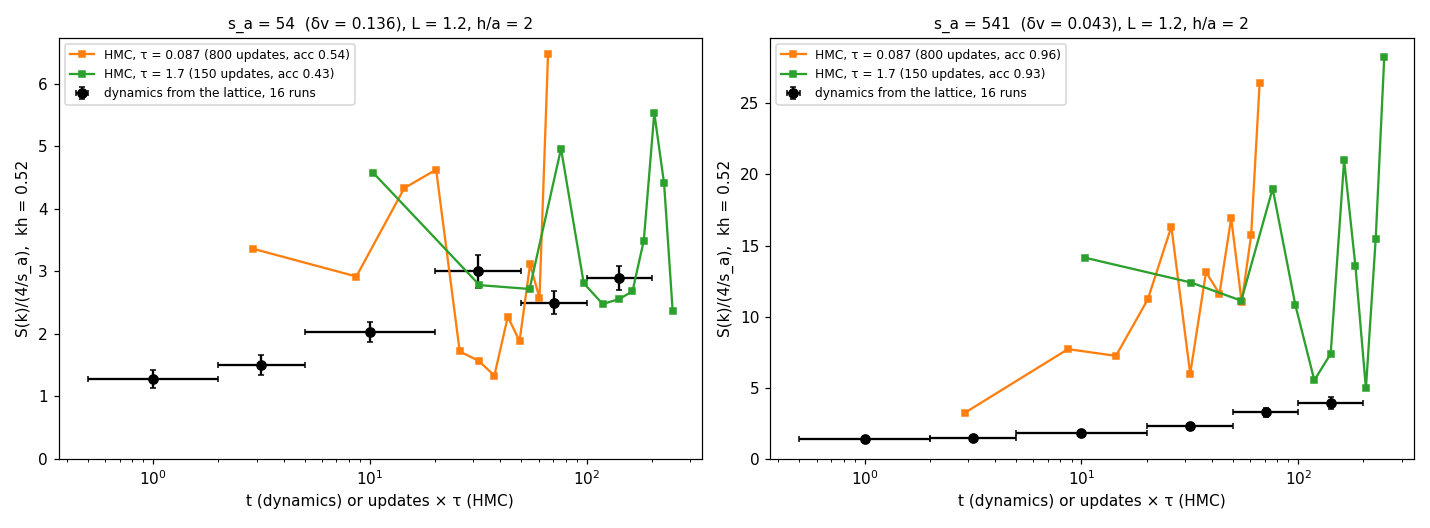
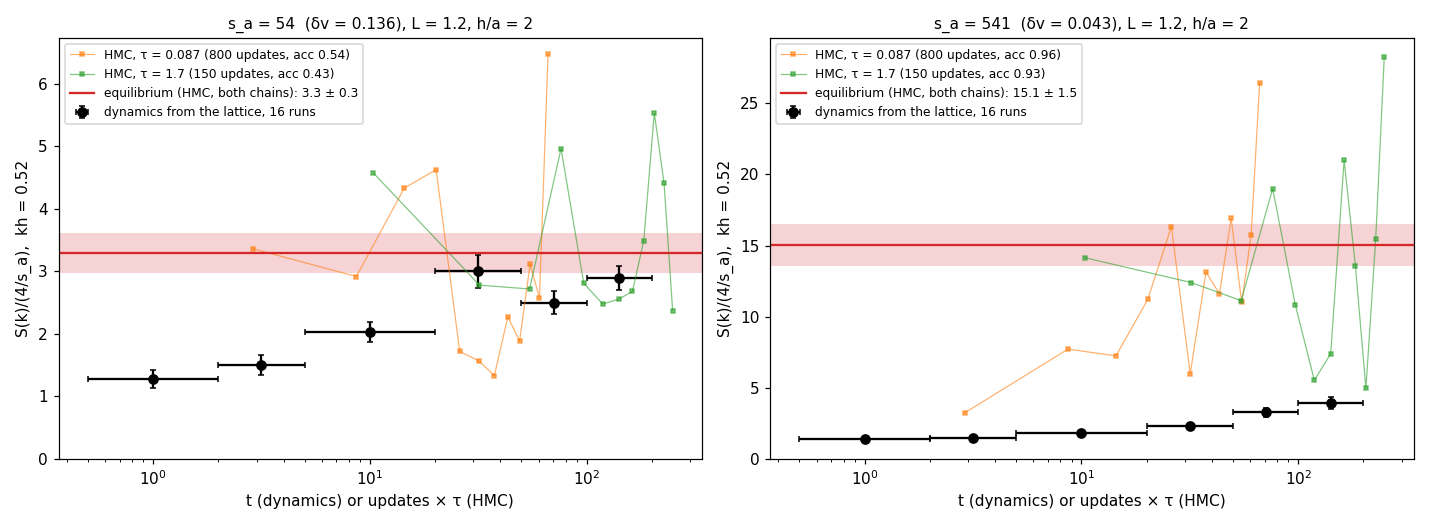
equilibrium_positions.tex: the equilibrium S(k) against kh from HMC at L = 1.2 (new Fig. Skk) — a plateau at small k, S(k→0) ≈ 0.25 at s_a = 54 and 0.11 at 541 (not ∝ 1/s_a), falling at kh ≳ 1; the earlier 1/k² reading corrected (it was the crossover); Fig. 3 now g(r) only, at four entropies; the be

diff --git a/docs/equilibrium_positions.tex b/docs/equilibrium_positions.tex
@@ -422,14 +422,14 @@ chains accept $58\%$ of their moves, and $600$ updates take about $20$ seconds.
 runs of \Fig{fig:gvt}, at the same $\beta^\mu$.  Hybrid Monte Carlo has no viscous step: its target \Eq{joint} involves only the
 Hamiltonian and the equation of state, so the choice of viscous kernel enters only the dynamics.
 \begin{itemize}
-\item \emph{Short range: the two agree.}  $g(r)$ lies on top of the dynamics at all three entropies, and so does the local bond
+\item \emph{Short range: the two agree.}  $g(r)$ lies on top of the dynamics at all four entropies, and so does the local bond
   order:
   \st
-  \psi_6^{\rm local}:\quad 0.367\ \text{vs}\ 0.361\ (s_a=541),\qquad 0.418\ \text{vs}\ 0.415\ (5413),\qquad 0.869\ \text{vs}\ 0.849\ (54000)
+  \psi_6^{\rm local}:\quad 0.366\ \text{vs}\ 0.367\ (s_a=54),\quad 0.367\ \text{vs}\ 0.361\ (541),\quad 0.418\ \text{vs}\ 0.415\ (5413),\quad 0.869\ \text{vs}\ 0.849\ (54000)
   \stp
   (HMC first).  The dynamics reaches the equilibrium local structure quickly.
-\item \emph{Long wavelengths: they do not.}  The fluctuations of the number density of the positions at $kh=0.52$ and $0.74$ are
-  lower in the dynamics, at every entropy,
+\item \emph{Long wavelengths: at these early times they do not.}  The fluctuations of the number density of the positions at
+  $kh=0.52$ and $0.74$ are lower in the dynamics at $t\le5$, at every entropy,
   \st
   \frac{|N_{\bm k}|^2_{\rm dyn}}{|N_{\bm k}|^2_{\rm HMC}}=0.07\text{--}0.42 ,
   \stp
@@ -486,31 +486,46 @@ $s_a=541$, $\tau=0.087$ & $15.8(1.8)$ & $5.6(7)$ & $6.2(5)$ & $3.1(2)$ \\
   equilibrium value is reached within the first ten updates; with short ones it takes several hundred at $s_a=541$: the
   momenta are redrawn before a density wave can cross the box, so the long modes move only by diffusion, slowly when the
   thermal velocity is small.
-\item \emph{At $s_a=54$ the dynamics reaches equilibrium.}  Its plateau, $2.9(2)$ at $kh=0.52$ for $t=100$--$200$, agrees with $3.4(4)$ and
-  $2.9(7)$.  The larger thermal velocity ($\delta v=0.14$) lets the number fluctuations relax by $t\approx20$--$50$.
-\item \emph{At $s_a=541$ the dynamics is far from it at $t=200$:} $3.9(4)$ against about $14$ at $kh=0.52$, still rising.
-\item \emph{The equilibrium itself depends on $k$ at $s_a=541$}, roughly as $1/k^2$:
+\item \emph{At $s_a=54$ the dynamics reaches equilibrium.}  Its plateau, $2.9(2)$ at $kh=0.52$ for $t=100$--$200$, agrees with the
+  combined equilibrium value $3.3(3)$.  The larger thermal velocity ($\delta v=0.14$) lets the number fluctuations relax by $t\approx20$--$50$.
+\item \emph{At $s_a=541$ the dynamics is far from it at $t=200$:} $3.9(4)$ against $15.1(1.5)$ at $kh=0.52$, still rising.
+\item \emph{The equilibrium depends on $k$} (\Fig{fig:Skk}, all box modes with $kh\le1.5$).  At both entropies $S(\bm k)$ falls from a
+  plateau at small $k$ to smaller values at $kh\gtrsim1$:
   \st
-  \frac{S(\bm k)}{4/s_a}\,(kh)^2\approx3.7,\quad3.6,\quad3.9\qquad(kh=0.52,\ 0.79,\ 1.04),
+  \frac{S}{4/s_a}\approx3.3\ \to\ 2\qquad(s_a=54),\qquad \frac{S}{4/s_a}\approx14\ \to\ 2.5\qquad(s_a=541),
   \stp
-  while at $s_a=54$ it is nearly flat.  A tentative description of both is a part $\propto1/s_a$ and a part independent of $s_a$ that
-  grows as $1/k^2$, about $0.027/(kh)^2$: a long-wavelength number fluctuation at fixed entropy and energy density is invisible
-  to hydrodynamics and is penalized only by the kernel.  Single chains and four wavevectors; to be checked.
+  from $kh\lesssim0.5$ to $kh\approx1.4$.  The plateau does not scale as $1/s_a$: in absolute terms $S(\bm k\to0)\approx0.25$ at $s_a=54$ and
+  $0.11$ at $541$, a factor $2.3$ for a factor $10$ in $s_a$.  (An earlier reading of a $1/k^2$ growth, from three wavevectors between
+  $kh=0.52$ and $1.04$, was the crossover to this plateau.)  Single chains; the campaign below will tighten it.
 \end{itemize}
+
+\begin{figure}[t]
+\includegraphics[width=\textwidth]{figs/equilibrium_Sk_vs_k.png}
+\caption{The equilibrium structure factor of the positions, $S(\bm k)/(4/s_a)$, against $kh$ for every box mode with $kh\le1.5$, from
+hybrid Monte Carlo at $L=1.2$, $h/a=2$ (two chains, long and short trajectories, combined per mode with inverse-variance
+weights).  Black: the dynamics from the lattice at $t=100$--$200$ (campaign \texttt{pairs}, 16 runs, $kh=0.52$).  Left $s_a=54$, right
+$s_a=541$.}
+\label{fig:Skk}
+\end{figure}
 
 \begin{figure}[t]
 \includegraphics[width=\textwidth]{figs/equilibrium_Sk_relaxation.png}
 \caption{$S(\bm k)/(4/s_a)$ at $kh=0.52$, $L=1.2$, $h/a=2$.  Black: the dynamics from the lattice (campaign \texttt{pairs}, 16 runs,
 time windows).  Coloured: hybrid Monte Carlo (one chain each) against the cumulative trajectory time, block averages, with
-trajectories of $0.087$ (orange) and $1.73$ (green).  Left $s_a=54$, right $s_a=541$.}
+trajectories of $0.087$ (orange) and $1.73$ (green).  Red band: the best estimate of the equilibrium, the two chains after
+their burn-in combined with inverse-variance weights, $3.3\pm0.3$ ($s_a=54$) and $15.1\pm1.5$ ($s_a=541$).  The individual blocks of a
+chain jump because $|N_{\bm k}|^2$ of one mode is exponentially distributed (its standard deviation equals its mean), only two modes
+have $kh=0.52$, and successive updates are correlated (integrated autocorrelation time about $2$ updates at $s_a=54$ and $4$ at
+$541$ with long trajectories, much longer with short ones): each block holds only a few independent samples.  Left $s_a=54$,
+right $s_a=541$.}
 \label{fig:Skrelax}
 \end{figure}
 
 \begin{figure}[t]
 \includegraphics[width=\textwidth]{figs/equilibrium_hmc_vs_dynamics.png}
-\caption{Late times of the full dynamics from the lattice (one run, the second half of $t\le2$ or $5$) against hybrid Monte
-Carlo (one chain, updates $301$--$600$), $L=0.6$, $h/a=2$.  Top: $g(r)$.  Bottom: the structure factor of the positions,
-$S(\bm k)=|N_{\bm k}|^2/N$ (the HMC chain records only $kh\le1$).}
+\caption{$g(r)$ at late times of the full dynamics from the lattice (one run, the second half of $t\le2$ or $5$) against hybrid
+Monte Carlo (one chain, updates $301$--$600$), $L=0.6$, $h/a=2$, at four entropies per particle.  The structure factor, which at
+these times had not relaxed, is in \Fig{fig:Skk}.}
 \label{fig:hmcvsdyn}
 \end{figure}
 

diff --git a/nersc/LOG.md b/nersc/LOG.md
@@ -4,6 +4,29 @@ Running record of what has been set up and run at NERSC (Perlmutter CPU), newest
 Agents: read this before submitting anything, and add an entry when you submit, finish,
 or learn something about running the code here.
 
+## Next session at NERSC — also: campaign `hmc_eq` (written 2026-11-14, on the laptop)
+
+The equilibrium S(k) of the positions from many independent hybrid Monte Carlo chains (docs/equilibrium_positions.tex,
+"Hybrid Monte Carlo in the same box" and Fig. Skk; single chains on the laptop were too noisy: one mode of |N_k|² is
+exponentially distributed and the chains are autocorrelated).  `nersc/campaign_hmc_eq.txt`, 64 tasks, ≈ 1.3 node-hours.
+Run from a worktree at the pushed tip of `equilibrium` that nobody edits (e.g. update `~/stochastic-sph-eq` if no task of
+`pairs_low` is pending, otherwise make `~/stochastic-sph-eq2`).  Smoke test first (login node, seconds):
+`julia --project=nersc test/testhmc.jl` (PASS).
+```bash
+R=$HOME/stochastic-sph-eq; cd $SCRATCH/sph
+sbatch --array=1-64 -A m3722 -t 08:00:00 --export=ALL,SR_REPO=$R $R/nersc/array.sh $R/nersc/campaign_hmc_eq.txt hmc_eq
+```
+Record the job ID here.  Analysis (plotting environment), one figure per box:
+```bash
+P=$SCRATCH/sph/hmc_eq
+SR_FIGDIR=$P/figs12 julia --project=$HOME/stochastic-sph examples/hmc_analysis.jl $P/hq12_s54 $P/hq12_s135 $P/hq12_s541
+SR_FIGDIR=$P/figs24 julia --project=$HOME/stochastic-sph examples/hmc_analysis.jl $P/hq24_s54 $P/hq24_s541
+```
+It prints S(k)/(4/s_a) per band of kh with the error from the spread between chains and τ_int.  Replace Fig. Skk
+(`docs/figs/equilibrium_Sk_vs_k.png`) by `figs12/hmc_Sk_vs_k.png` with the L = 2.4 sets added, update the table and bullets
+of "Hybrid Monte Carlo in the same box" (in particular the small-k plateau and its s_a dependence: S(k→0) ≈ 0.25 at
+s_a = 54 and 0.11 at 541 from single chains), compare with the dynamics of `pairs` and `pairs_low`, commit, push, report here.
+
 ## Next session at NERSC — also: campaign `pairs_low` (written 2026-11-14, on the laptop)
 
 Do **not** stop `pairs` if it is running, and do not delete its output or any figure: this is a second campaign.
